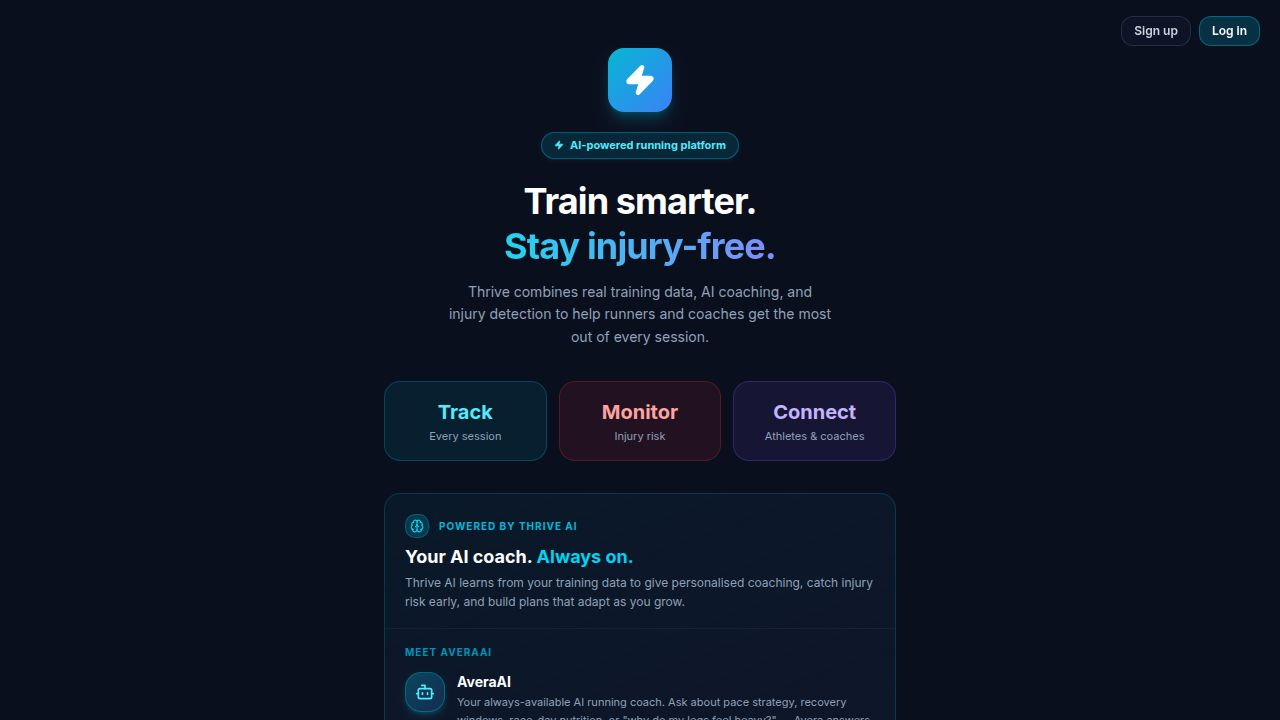
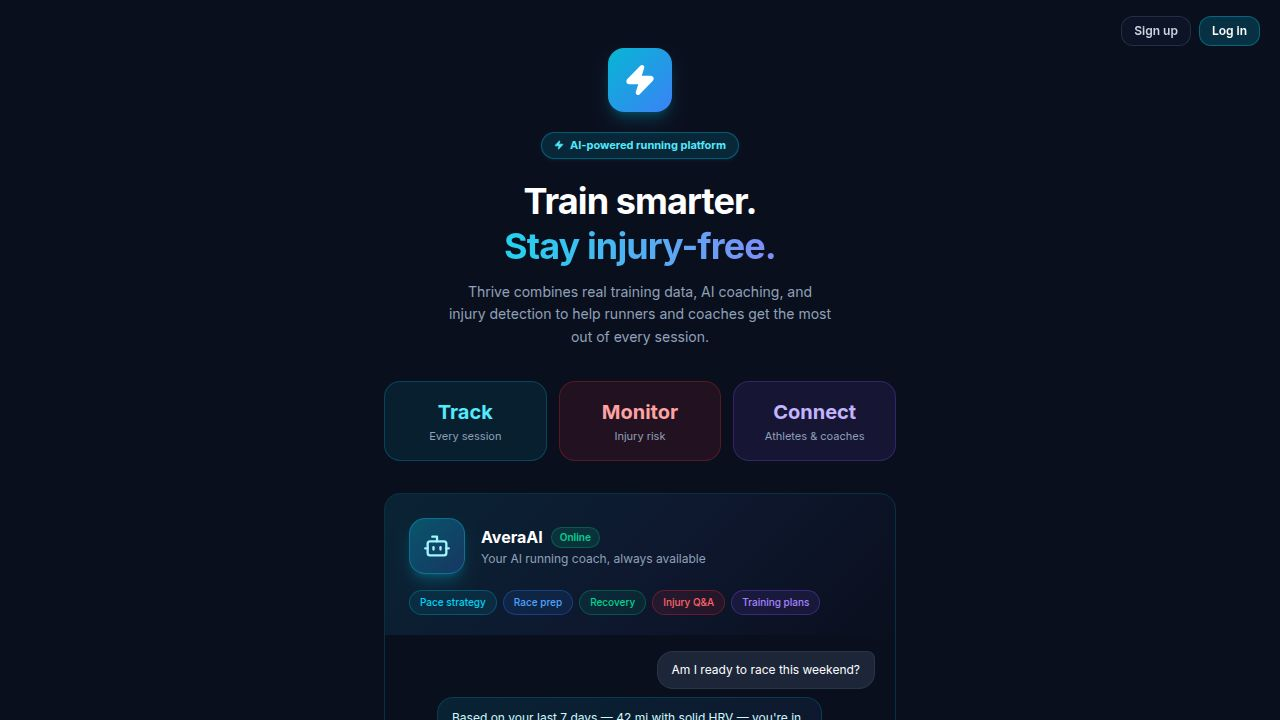
Improve user authentication and onboarding flow
Fixes user migration issues by implementing a new strategy in `authMiddleware.ts` and streamlines the onboarding process by removing the contact step.

Replit-Commit-Author: Agent
Replit-Commit-Session-Id: dca65999-daee-4675-a9d1-040d50c62244
Replit-Commit-Checkpoint-Type: full_checkpoint
Replit-Commit-Event-Id: 9a102f75-2c3a-4989-9052-cb633dc78055
Replit-Commit-Screenshot-Url: https://storage.googleapis.com/screenshot-production-us-central1/cc7e07a7-3f99-4dbd-b5a0-431e4ea1b93a/dca65999-daee-4675-a9d1-040d50c62244/qIM5U7A
Replit-Helium-Checkpoint-Created: true

Changed region(s): [[0.3125, 0.7028, 0.6875, 0.8556], [0.3125, 0.8861, 0.6875, 1.0]]

diff --git a/artifacts/stride-iq/src/pages/onboarding.tsx b/artifacts/stride-iq/src/pages/onboarding.tsx
@@ -2,16 +2,12 @@ import { useState } from "react";
 import { useLocation } from "wouter";
 import { useUpdateAthleteProfile, getGetAthleteProfileQueryKey } from "@workspace/api-client-react";
 import { useQueryClient } from "@tanstack/react-query";
-import { ChevronRight, ChevronLeft, Check, Upload, Zap, Users, User, Mail, Phone, LayoutDashboard, ShieldAlert, Bot, TrendingUp, Activity } from "lucide-react";
+import { ChevronRight, ChevronLeft, Check, Upload, Zap, Users, User, LayoutDashboard, ShieldAlert, Bot, TrendingUp, Activity } from "lucide-react";
 
 type Role = "athlete" | "coach";
 type FitnessLevel = "beginner" | "intermediate" | "advanced" | "elite";
 type CoachExp = "new" | "developing" | "experienced" | "veteran";
-type ContactMethod = "email" | "phone";
-
 interface FormData {
-  contactMethod: ContactMethod | null;
-  contactValue: string;
   role: Role | null;
   name: string;
   age: string;
@@ -26,9 +22,9 @@ interface FormData {
 }
 
 // Step indices for each role
-// 0 = Contact, 1 = Role, 2 = About You / Coach Profile, 3 = Connect / Get Started
-const ATHLETE_STEPS = ["Contact", "Your Role", "About You", "Connect Data"];
-const COACH_STEPS   = ["Contact", "Your Role", "Your Profile", "Get Started"];
+// 0 = Role, 1 = About You / Coach Profile, 2 = Connect / Get Started
+const ATHLETE_STEPS = ["Your Role", "About You", "Connect Data"];
+const COACH_STEPS   = ["Your Role", "Your Profile", "Get Started"];
 
 const FITNESS_LEVELS: { value: FitnessLevel; label: string; desc: string }[] = [
   { value: "beginner",     label: "Beginner",     desc: "Running < 6 months" },
@@ -121,14 +117,6 @@ const inputCls = (error?: string) =>
     error ? "border-red-500" : "border-slate-700 focus:border-cyan-500"
   }`;
 
-function isValidEmail(v: string) {
-  return /^[^\s@]+@[^\s@]+\.[^\s@]+$/.test(v);
-}
-
-function isValidPhone(v: string) {
-  return /^\+?[\d\s\-().]{7,15}$/.test(v);
-}
-
 export default function Onboarding() {
   const [step, setStep] = useState(0);
   const [form, setForm] = useState<FormData>(() => {
@@ -136,8 +124,6 @@ export default function Onboarding() {
     const pendingRole = stored === "athlete" || stored === "coach" ? stored : null;
     if (pendingRole) sessionStorage.removeItem("thrive_pending_role");
     return {
-      contactMethod: null,
-      contactValue: "",
       role: pendingRole,
       name: "", age: "",
       fitnessLevel: "intermediate",
@@ -162,29 +148,14 @@ export default function Onboarding() {
     setErrors(e => ({ ...e, [key]: undefined }));
   }
 
-  // Step 0: Contact method
+  // Step 0: Role selection
   function validateStep0() {
-    const e: typeof errors = {};
-    if (!form.contactMethod) { e.contactMethod = "Please choose a contact method"; }
-    else if (!form.contactValue.trim()) {
-      e.contactValue = form.contactMethod === "email" ? "Email is required" : "Phone number is required";
-    } else if (form.contactMethod === "email" && !isValidEmail(form.contactValue)) {
-      e.contactValue = "Enter a valid email address";
-    } else if (form.contactMethod === "phone" && !isValidPhone(form.contactValue)) {
-      e.contactValue = "Enter a valid phone number";
-    }
-    setErrors(e);
-    return Object.keys(e).length === 0;
-  }
-
-  // Step 1: Role selection
-  function validateStep1() {
     if (!form.role) { setErrors({ role: "Please select a role to continue" }); return false; }
     return true;
   }
 
-  // Step 2: About you (athlete)
-  function validateStep2Athlete() {
+  // Step 1: About you (athlete)
+  function validateStep1Athlete() {
     const e: typeof errors = {};
     if (!form.name.trim()) e.name = "Name is required";
     if (!form.age) e.age = "Age is required";
@@ -196,8 +167,8 @@ export default function Onboarding() {
     return Object.keys(e).length === 0;
   }
 
-  // Step 2: Coach profile
-  function validateStep2Coach() {
+  // Step 1: Coach profile
+  function validateStep1Coach() {
     const e: typeof errors = {};
     if (!form.name.trim()) e.name = "Name is required";
     if (!form.teamName.trim()) e.teamName = "Team name is required";
@@ -210,10 +181,9 @@ export default function Onboarding() {
 
   function next() {
     if (step === 0 && !validateStep0()) return;
-    if (step === 1 && !validateStep1()) return;
-    if (step === 2) {
-      if (form.role === "athlete" && !validateStep2Athlete()) return;
-      if (form.role === "coach"   && !validateStep2Coach())   return;
+    if (step === 1) {
+      if (form.role === "athlete" && !validateStep1Athlete()) return;
+      if (form.role === "coach"   && !validateStep1Coach())   return;
     }
     setStep(s => s + 1);
   }
@@ -225,8 +195,6 @@ export default function Onboarding() {
         name: form.name.trim() || (isCoach ? "Coach" : "Athlete"),
         ...(form.age ? { age: parseInt(form.age) } : {}),
         userRole: form.role!,
-        contactMethod: form.contactMethod!,
-        contactValue: form.contactValue,
         ...(isCoach
           ? {
               primaryGoal: form.coachFocus || "Coaching",
@@ -267,85 +235,8 @@ export default function Onboarding() {
 
         <StepIndicator step={step} steps={steps} />
 
-        {/* ── Step 0: Contact Method ── */}
+        {/* ── Step 0: Role Selection ── */}
         {step === 0 && (
-          <div className="space-y-8">
-            <div>
-              <h1 className="text-3xl font-bold text-white mb-1">How should we contact you?</h1>
-              <p className="text-slate-400">Choose one — you can update this later in your profile.</p>
-            </div>
-
-            <div className="grid grid-cols-1 sm:grid-cols-2 gap-4">
-              {([
-                {
-                  id: "email" as ContactMethod,
-                  Icon: Mail,
-                  label: "Email",
-                  desc: "Get training summaries, alerts, and updates by email.",
-                  placeholder: "[email redacted]",
-                  inputType: "email",
-                },
-                {
-                  id: "phone" as ContactMethod,
-                  Icon: Phone,
-                  label: "Phone number",
-                  desc: "Receive quick notifications and reminders via text.",
-                  placeholder: "[phone redacted]",
-                  inputType: "tel",
-                },
-              ] as const).map(opt => {
-                const selected = form.contactMethod === opt.id;
-                return (
-                  <button
-                    key={opt.id}
-                    type="button"
-                    onClick={() => { set("contactMethod", opt.id); }}
-                    className={`relative text-left rounded-xl border p-6 transition-all duration-200
-                      ${selected
-                        ? "border-cyan-500 bg-cyan-500/5 shadow-sm scale-[1.01]"
-                        : "border-slate-800 bg-slate-900/50 hover:border-slate-700 hover:bg-slate-800"}`}
-                  >
-                    {selected && (
-                      <div className="absolute top-4 right-4 w-5 h-5 rounded-full bg-cyan-500 flex items-center justify-center">
-                        <Check size={12} className="text-slate-900" />
-                      </div>
-                    )}
-                    <div className="flex items-center gap-4 mb-4">
-                      <div className="w-10 h-10 rounded-lg bg-slate-800 border border-slate-700 flex items-center justify-center shrink-0">
-                        <opt.Icon className="w-5 h-5 text-slate-400" />
-                      </div>
-                      <h2 className="text-lg font-medium text-white">{opt.label}</h2>
-                    </div>
-                    <p className="text-slate-400 text-sm leading-relaxed">{opt.desc}</p>
-                  </button>
-                );
-              })}
-            </div>
-            {errors.contactMethod && <p className="text-red-400 text-xs -mt-4">{errors.contactMethod}</p>}
-
-            {/* Input appears once a method is chosen */}
-            {form.contactMethod && (
-              <div className="space-y-1.5">
-                <label className="block text-sm font-medium text-slate-300">
-                  {form.contactMethod === "email" ? "Email address" : "Phone number"}
-                  <span className="text-red-400 ml-0.5">*</span>
-                </label>
-                <input
-                  type={form.contactMethod === "email" ? "email" : "tel"}
-                  value={form.contactValue}
-                  onChange={e => set("contactValue", e.target.value)}
-                  placeholder={form.contactMethod === "email" ? "[email redacted]" : "[phone redacted]"}
-                  className={inputCls(errors.contactValue)}
-                  autoFocus
-                />
-                {errors.contactValue && <p className="text-red-400 text-xs">{errors.contactValue}</p>}
-              </div>
-            )}
-          </div>
-        )}
-
-        {/* ── Step 1: Role Selection ── */}
-        {step === 1 && (
           <div>
             <div className="mb-8">
               <h1 className="text-3xl font-bold text-white mb-1">Welcome to Thrive</h1>
@@ -408,8 +299,8 @@ export default function Onboarding() {
           </div>
         )}
 
-        {/* ── Step 2 (Athlete): About You ── */}
-        {step === 2 && form.role === "athlete" && (
+        {/* ── Step 1 (Athlete): About You ── */}
+        {step === 1 && form.role === "athlete" && (
           <div className="space-y-6">
             <div>
               <h1 className="text-3xl font-bold text-white mb-1">Tell us about yourself</h1>
@@ -491,8 +382,8 @@ export default function Onboarding() {
           </div>
         )}
 
-        {/* ── Step 2 (Coach): Your Profile ── */}
-        {step === 2 && form.role === "coach" && (
+        {/* ── Step 1 (Coach): Your Profile ── */}
+        {step === 1 && form.role === "coach" && (
           <div className="space-y-6">
             <div>
               <h1 className="text-3xl font-bold text-white mb-1">Tell us about your coaching</h1>
@@ -571,8 +462,8 @@ export default function Onboarding() {
           </div>
         )}
 
-        {/* ── Step 3 (Athlete): Connect Data ── */}
-        {step === 3 && form.role === "athlete" && (
+        {/* ── Step 2 (Athlete): Connect Data ── */}
+        {step === 2 && form.role === "athlete" && (
           <div>
             <div className="mb-7">
               <h1 className="text-3xl font-bold text-white mb-1">How will you import runs?</h1>
@@ -615,8 +506,8 @@ export default function Onboarding() {
           </div>
         )}
 
-        {/* ── Step 3 (Coach): Get Started ── */}
-        {step === 3 && form.role === "coach" && (
+        {/* ── Step 2 (Coach): Get Started ── */}
+        {step === 2 && form.role === "coach" && (
           <div>
             <div className="mb-8">
               <h1 className="text-3xl font-bold text-white mb-1">You're all set, Coach!</h1>

diff --git a/artifacts/api-server/src/middlewares/authMiddleware.ts b/artifacts/api-server/src/middlewares/authMiddleware.ts
@@ -21,17 +21,27 @@ declare global {
 
 /**
  * Migrate an old account (UUID id) to a Clerk user ID.
- * Updates all FK tables that reference users.id before changing the PK itself.
+ * Strategy: create new user row with Clerk ID, reparent all child rows,
+ * then delete the old row. This avoids FK chicken-and-egg problems.
  */
 async function migrateUserToClerkId(
   oldId: string,
   clerkUserId: string,
+  email: string | null,
   firstName: string | null,
   lastName: string | null,
   profileImageUrl: string | null,
 ) {
   await db.transaction(async (tx) => {
-    // Update all child tables first (FK constraints are IMMEDIATE, so order matters)
+    const tempEmail = `migrated_${oldId}@placeholder.local`;
+    // 1. Free the email on the old row so we can insert the new one
+    await tx.execute(sql`UPDATE users SET email = ${tempEmail} WHERE id = ${oldId}`);
+    // 2. Insert the new user row with Clerk ID (email is now unique)
+    await tx.execute(sql`
+      INSERT INTO users (id, email, first_name, last_name, profile_image_url, created_at, updated_at)
+      VALUES (${clerkUserId}, ${email}, ${firstName}, ${lastName}, ${profileImageUrl}, NOW(), NOW())
+    `);
+    // 3. Reparent all child tables (FK now valid because clerkUserId exists in users)
     await tx.execute(sql`UPDATE athlete_profile SET user_id = ${clerkUserId} WHERE user_id = ${oldId}`);
     await tx.execute(sql`UPDATE teams SET coach_user_id = ${clerkUserId} WHERE coach_user_id = ${oldId}`);
     await tx.execute(sql`UPDATE team_memberships SET athlete_user_id = ${clerkUserId} WHERE athlete_user_id = ${oldId}`);
@@ -40,16 +50,9 @@ async function migrateUserToClerkId(
     await tx.execute(sql`UPDATE activities SET user_id = ${clerkUserId} WHERE user_id = ${oldId}`);
     await tx.execute(sql`UPDATE injury_alerts SET user_id = ${clerkUserId} WHERE user_id = ${oldId}`);
     await tx.execute(sql`UPDATE training_plans SET user_id = ${clerkUserId} WHERE user_id = ${oldId}`);
-    // Now safe to update the PK — no child rows reference the old id anymore
-    await tx.execute(sql`
-      UPDATE users
-      SET id = ${clerkUserId},
-          first_name = ${firstName},
-          last_name = ${lastName},
-          profile_image_url = ${profileImageUrl},
-          updated_at = NOW()
-      WHERE id = ${oldId}
-    `);
+    await tx.execute(sql`UPDATE conversations SET user_id = ${clerkUserId} WHERE user_id = ${oldId}`);
+    // 4. Safe to delete old row — nothing references it any more
+    await tx.execute(sql`DELETE FROM users WHERE id = ${oldId}`);
   });
 }
 
@@ -122,7 +125,7 @@ export async function authMiddleware(
 
         if (oldUser && oldUser.id !== clerkUserId) {
           req.log?.info({ oldId: oldUser.id, clerkUserId }, "Migrating pre-Clerk account to Clerk ID");
-          await migrateUserToClerkId(oldUser.id, clerkUserId, firstName, lastName, profileImageUrl);
+          await migrateUserToClerkId(oldUser.id, clerkUserId, email, firstName, lastName, profileImageUrl);
           [newUser] = await db
             .select()
             .from(usersTable)